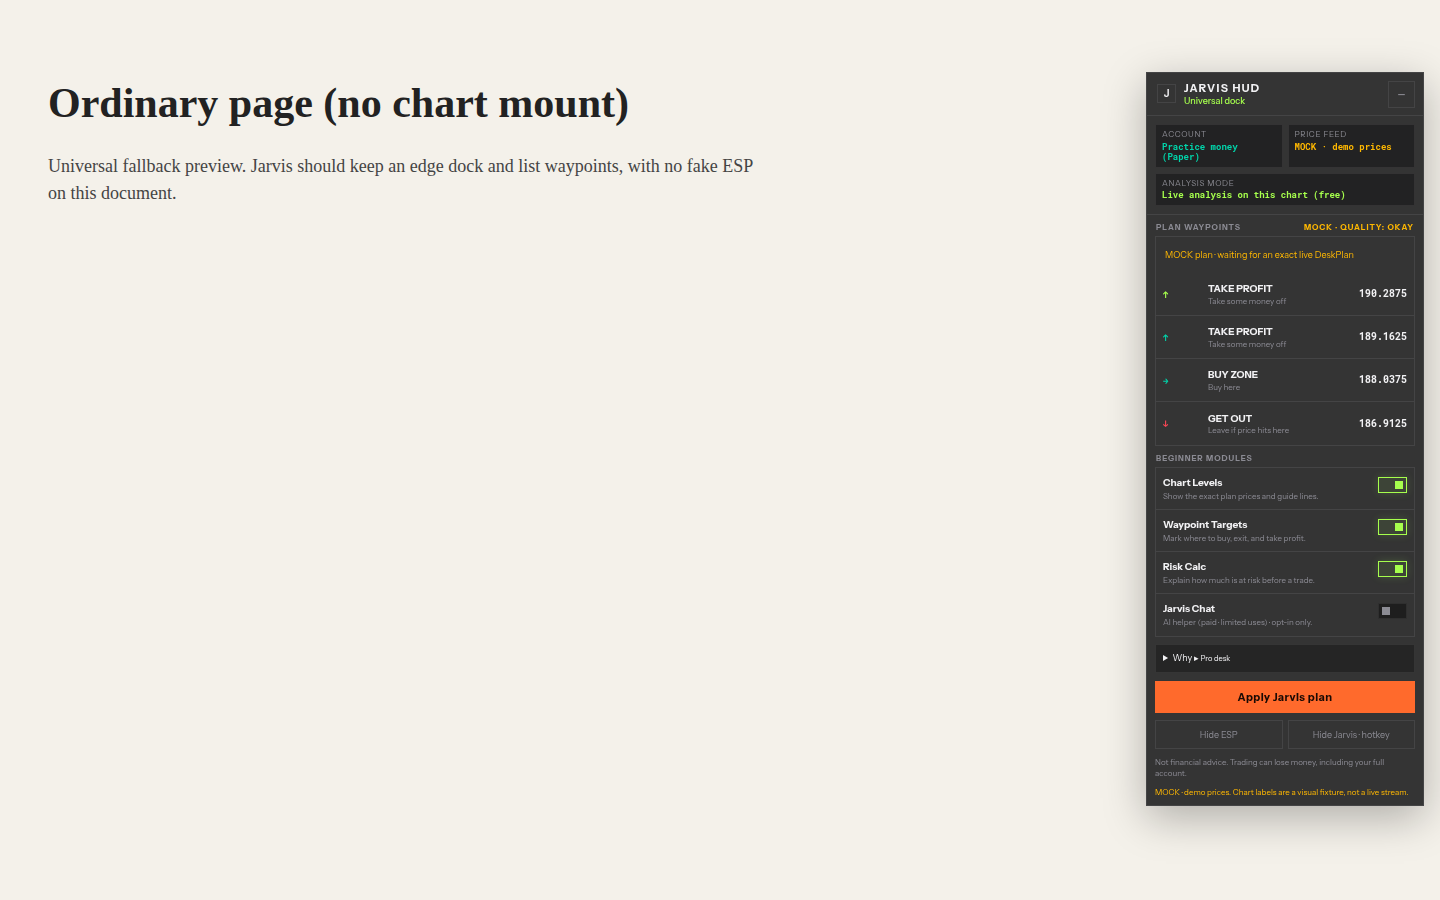
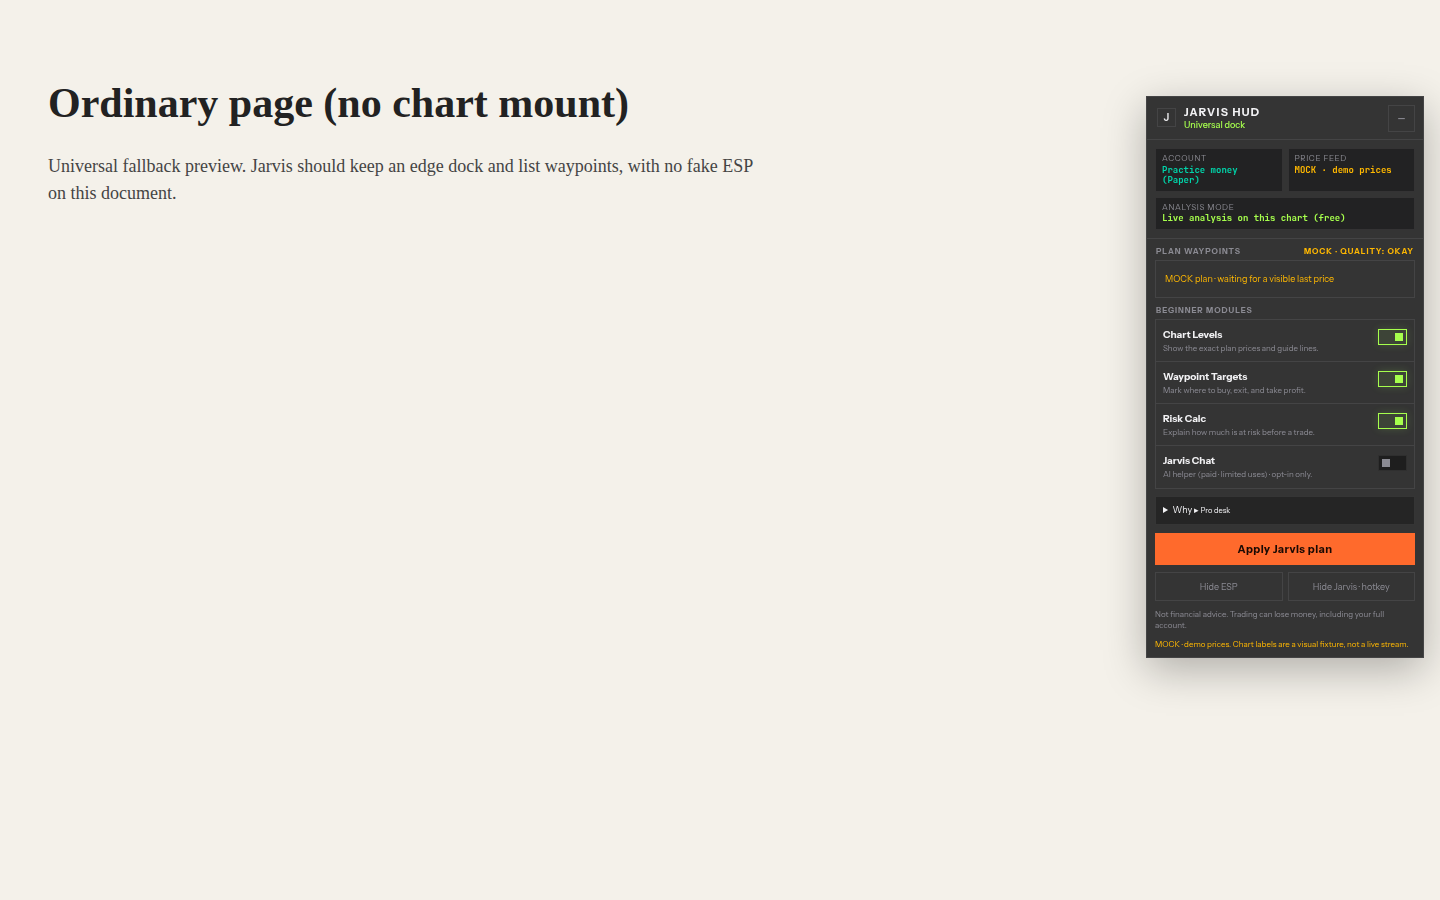
Scale MOCK DeskPlan to the visible host last price
Derive entry/stop/t1/t2 from the chart legend last or price-axis mid
so AAPL ~336 labels sit on the visible pane instead of 188-era fixtures.
Keep honest MOCK chrome and on-chart BUY ZONE / TAKE PROFIT / GET OUT.

diff --git a/content.js b/content.js
@@ -45,48 +45,20 @@
       color: "#FF4757",
     },
   ];
-  const MOCK_DESK_PLAN = Object.freeze({
-    id: "DEMO-LocalDesk",
-    symbol: "DEMO",
-    source: "local-desk",
-    side: "BUY",
-    entry: 188.0375,
-    stop: 186.9125,
-    t1: 189.1625,
-    t2: 190.2875,
-    target1: 189.1625,
-    target2: 190.2875,
-    rMultiple: 1,
-    rewardRisk: 1,
-    invalidation: "Mock only — no live signal is connected.",
-    quality: "Okay",
-    levelsUsed: ["VWAP", "OR", "ATR"],
-    surface: {
-      buyZone: { label: "BUY ZONE", price: 188.0375, subtitle: "Buy here" },
-      takeProfit: {
-        label: "TAKE PROFIT",
-        price: 189.1625,
-        subtitle: "Take some money off",
-      },
-      getOut: {
-        label: "GET OUT",
-        price: 186.9125,
-        subtitle: "Leave if price hits here",
-      },
-    },
-    why: {
-      bias: "Mock LocalDesk fixture for layout review only.",
-      invalidation: "Mock only — no live signal is connected.",
-      r: 1,
-      setupName: "LocalDesk fixture",
-    },
-  });
   const MOCK_PROJECTION = Object.freeze({
-    entry: 0.56,
-    stop: 0.73,
-    t1: 0.39,
-    t2: 0.24,
+    entry: 0.5,
+    stop: 0.68,
+    t1: 0.34,
+    t2: 0.22,
   });
+  const LAST_PRICE_SELECTORS = [
+    ".js-symbol-last",
+    '[data-name="legend-source-item"]',
+    '[data-name="legend"]',
+    ".legend",
+    '[data-testid="qsp-price"]',
+    "fin-streamer[data-field='regularMarketPrice']",
+  ];
 
   const defaultPreferences = {
     esp: true,
@@ -107,6 +79,9 @@
   let lastSequence = -1;
   let refreshTimer;
   let lastUrl = location.href;
+
+  let lastMockAnchor;
+  let mockPlan;
 
   function loadPreferences() {
     try {
@@ -140,11 +115,101 @@
     }));
   }
 
-  function currentLevels() {
-    return activeEnvelope
-      ? levelsForPlan(activeEnvelope.plan, activeEnvelope.projection)
-      : levelsForPlan(MOCK_DESK_PLAN, MOCK_PROJECTION);
+  function extractPrices(text) {
+    return String(text || "")
+      .replace(/,/g, "")
+      .match(/\d+(?:\.\d+)?/g)
+      ?.map(Number)
+      .filter((value) => Number.isFinite(value) && value > 1 && value < 1e7) || [];
   }
+
+  function readVisibleLast(adapter) {
+    const lastSelectors = [
+      ...(adapter?.lastPriceSelectors || []),
+      ...LAST_PRICE_SELECTORS,
+    ];
+    for (const selector of lastSelectors) {
+      for (const element of document.querySelectorAll(selector)) {
+        if (element.closest("#jarvis-multi-host-hud")) continue;
+        const prices = extractPrices(element.textContent);
+        if (prices.length) return prices[0];
+      }
+    }
+
+    const axisSelectors = adapter?.priceAxisSelectors || [];
+    const axisPrices = [];
+    for (const selector of axisSelectors) {
+      for (const element of document.querySelectorAll(selector)) {
+        if (element.closest("#jarvis-multi-host-hud")) continue;
+        axisPrices.push(...extractPrices(element.textContent));
+      }
+    }
+    if (axisPrices.length >= 2) {
+      return (Math.min(...axisPrices) + Math.max(...axisPrices)) / 2;
+    }
+    return undefined;
+  }
+
+  function buildMockPlan(last) {
+    const entry = last;
+    const stop = last * 0.992;
+    const t1 = last * 1.006;
+    const t2 = last * 1.012;
+    return {
+      id: "DEMO-LocalDesk",
+      symbol: "DEMO",
+      source: "local-desk",
+      side: "BUY",
+      entry,
+      stop,
+      t1,
+      t2,
+      target1: t1,
+      target2: t2,
+      rMultiple: 1,
+      rewardRisk: 1,
+      invalidation: "Mock only — no live signal is connected.",
+      quality: "Okay",
+      levelsUsed: ["VWAP", "OR", "ATR"],
+      surface: {
+        buyZone: { label: "BUY ZONE", price: entry, subtitle: "Buy here" },
+        takeProfit: {
+          label: "TAKE PROFIT",
+          price: t1,
+          subtitle: "Take some money off",
+        },
+        getOut: {
+          label: "GET OUT",
+          price: stop,
+          subtitle: "Leave if price hits here",
+        },
+      },
+      why: {
+        bias: "Mock LocalDesk fixture scaled to the visible last price.",
+        invalidation: "Mock only — no live signal is connected.",
+        r: 1,
+        setupName: "LocalDesk fixture",
+      },
+    };
+  }
+
+  function currentMockPlan(adapter) {
+    const last = readVisibleLast(adapter);
+    if (!Number.isFinite(last)) return mockPlan;
+    if (lastMockAnchor === last && mockPlan) return mockPlan;
+    lastMockAnchor = last;
+    mockPlan = buildMockPlan(last);
+    return mockPlan;
+  }
+
+  function currentLevels() {
+    if (activeEnvelope) {
+      return levelsForPlan(activeEnvelope.plan, activeEnvelope.projection);
+    }
+    const plan = currentMockPlan(activeAdapter);
+    return plan ? levelsForPlan(plan, MOCK_PROJECTION) : [];
+  }
+
 
   function setGapState(reason = "Waiting for an exact live DeskPlan") {
     activeEnvelope = undefined;
@@ -906,9 +971,12 @@
     };
 
     if (!activeEnvelope) {
+      const mock = currentMockPlan(activeAdapter);
       const gap = document.createElement("div");
       gap.className = "gap-state gap-copy";
-      gap.textContent = "MOCK plan · waiting for an exact live DeskPlan";
+      gap.textContent = mock
+        ? "MOCK plan · scaled to the visible last price"
+        : "MOCK plan · waiting for a visible last price";
       list.appendChild(gap);
       for (const level of currentLevels()) {
         appendListRow(level);
@@ -916,12 +984,12 @@
       }
       feedValue.textContent = "MOCK · demo prices";
       analysisValue.textContent = "Live analysis on this chart (free)";
-      planState.textContent = `MOCK · Quality: ${MOCK_DESK_PLAN.quality}`;
+      planState.textContent = `MOCK · Quality: ${mock?.quality || "Okay"}`;
       delayedWarning.textContent =
         "MOCK · demo prices. Chart labels are a visual fixture, not a live stream.";
       delayedWarning.classList.remove("is-hidden");
       whyPanel.open = whyWasOpen;
-      renderWhy(MOCK_DESK_PLAN);
+      if (mock) renderWhy(mock);
       return;
     }
 
@@ -931,7 +999,9 @@
       activeEnvelope.quote?.feed ?? activeEnvelope.feedStatus,
     ).toLowerCase();
     feedValue.textContent =
-      feedStatus === "delayed"
+      feedStatus === "mock" || feedStatus === "demo"
+        ? "MOCK · demo prices"
+        : feedStatus === "delayed"
         ? `Prices: Delayed · ~${activeEnvelope.delayMinutes}m`
         : `Prices: Live · ${lag}ms`;
     analysisValue.textContent = "Live analysis on this chart (free)";
@@ -1070,6 +1140,9 @@
     if (!shadow) return;
     if (
       activeEnvelope &&
+      !["mock", "demo"].includes(
+        String(activeEnvelope.quote?.feed ?? activeEnvelope.feedStatus).toLowerCase(),
+      ) &&
       Date.now() - activeEnvelope.observedAt >
         globalThis.JarvisDeskPlan.STALE_AFTER_MS
     ) {
@@ -1084,6 +1157,15 @@
       ? requestedAdapter
       : globalThis.JarvisHostAdapters.universal;
     if (resolvedAdapter !== activeAdapter) applyHostAdapter(resolvedAdapter);
+
+    if (!activeEnvelope) {
+      const previous = lastMockAnchor;
+      currentMockPlan(resolvedAdapter);
+      if (lastMockAnchor !== previous) {
+        renderPlan();
+        return;
+      }
+    }
 
     if (!chartBounds) {
       shadow.querySelector(".overlay").classList.add("is-hidden");
@@ -1115,6 +1197,10 @@
     const levels = currentLevels();
     const zone = shadow.querySelector(".entry-zone");
     const entry = levels.find((level) => level.id === "entry");
+    if (!entry || !Number.isFinite(entry.ratio)) {
+      shadow.querySelector(".overlay").classList.add("is-hidden");
+      return;
+    }
     const entryY =
       chartBounds.top + chartBounds.height * entry.ratio;
 

diff --git a/adapters.js b/adapters.js
@@ -13,6 +13,17 @@
         "#chart-container",
         "canvas",
       ],
+      lastPriceSelectors: [
+        ".js-symbol-last",
+        '[data-name="legend-source-item"]',
+        '[data-name="legend"]',
+        ".legend",
+      ],
+      priceAxisSelectors: [
+        '[data-name="price-axis"]',
+        '[class*="priceAxis"]',
+        '[class*="price-axis"]',
+      ],
       contrast: {
         labelBackground: "rgba(5, 5, 5, 0.92)",
         labelBorder: "rgba(255, 255, 255, 0.18)",
@@ -28,6 +39,14 @@
         '[class*="kline"]',
         '[class*="chart"] canvas',
         "canvas",
+      ],
+      lastPriceSelectors: [
+        '[class*="last"]',
+        '[class*="price"]',
+      ],
+      priceAxisSelectors: [
+        '[class*="price-axis"]',
+        '[class*="yAxis"]',
       ],
       contrast: {
         labelBackground: "rgba(5, 5, 5, 0.94)",
@@ -46,6 +65,15 @@
         "#chart-container",
         'section[data-testid*="quote"] canvas',
         "canvas",
+      ],
+      lastPriceSelectors: [
+        '[data-testid="qsp-price"]',
+        '[data-field="regularMarketPrice"]',
+        "fin-streamer[data-field='regularMarketPrice']",
+      ],
+      priceAxisSelectors: [
+        '[class*="price-axis"]',
+        "fin-chart",
       ],
       contrast: {
         labelBackground: "rgba(5, 5, 5, 0.97)",

diff --git a/demo/tradingview.html b/demo/tradingview.html
@@ -51,13 +51,31 @@
         z-index: 2;
         font: 600 13px/1.3 "JetBrains Mono", ui-monospace, monospace;
       }
+      .price-axis {
+        position: absolute;
+        top: 48px;
+        right: 8px;
+        bottom: 28px;
+        z-index: 2;
+        display: flex;
+        flex-direction: column;
+        justify-content: space-between;
+        font: 600 11px/1 "JetBrains Mono", ui-monospace, monospace;
+        color: #8b8e97;
+        text-align: right;
+      }
     </style>
   </head>
   <body>
     <header class="tv-top">TradingView · AAPL · 1D · MOCK overlay preview</header>
     <aside class="tv-left"></aside>
     <div data-name="chart-container">
-      <div class="legend">AAPL&nbsp;&nbsp;188.04</div>
+      <div class="legend" data-name="legend-source-item">AAPL&nbsp;&nbsp;336.12</div>
+      <aside class="price-axis" data-name="price-axis">
+        <div>348.00</div>
+        <div>336.12</div>
+        <div>324.00</div>
+      </aside>
       <canvas id="candles" width="1600" height="900"></canvas>
     </div>
     <script>

diff --git a/desk-plan.js b/desk-plan.js
@@ -27,12 +27,13 @@
     const invalidation = plan?.why?.invalidation ?? plan?.invalidation;
     if (
       value.type !== MESSAGE_TYPE ||
-      value.source !== "jarvis-free-local" ||
-      !["live", "delayed"].includes(feedStatus) ||
+      !["jarvis-free-local", "mock-demo"].includes(value.source) ||
+      !["live", "delayed", "mock", "demo"].includes(feedStatus) ||
       !Number.isSafeInteger(value.sequence) ||
       value.sequence <= lastSequence ||
       !Number.isFinite(value.observedAt) ||
-      Math.abs(now - value.observedAt) > STALE_AFTER_MS ||
+      (!["mock", "demo"].includes(feedStatus) &&
+        Math.abs(now - value.observedAt) > STALE_AFTER_MS) ||
       !plan ||
       !projection ||
       plan.source !== "local-desk" ||

diff --git a/README.md b/README.md
@@ -56,6 +56,7 @@ There is no LLM-per-tick path or timer batching. Until the stream bridge lands, 
 - **Live analysis on this chart (free)** is the default analysis badge; this spike has no cloud dependency.
 - The optional Jarvis Chat toggle is off by default and identified as **AI helper (paid · limited uses)**. This spike does not connect to a paid service.
 - On-chart labels lead with kid-clear actions: **→ BUY ZONE** (“Buy here”), **↑ TAKE PROFIT** (“Take some money off”), and **↓ GET OUT** (“Leave if price hits here”), each paired with the exact mono plan price.
+- MOCK DeskPlan prices are derived from the host chart’s visible last (legend) or price-axis mid — never a hardcoded 188-era fixture — then placed on-chart. The feed chip stays **MOCK · demo prices**.
 - Optional bias, invalidation, reward:risk, and setup name are confined to a collapsed **Why** expander. Quality is always shown as Strong, Okay, or Skip when a plan is active.
 - Overlay dock craft follows Invertix §0c on the full HUD surface: `--jx-void #050507`, `--jx-panel #0A0A0C`, hairline `white/8`, sparse glass blur 12–16px, editorial sans + mono prices, `--jx-cta #FF6A2C` on **Apply Jarvis plan** only. BUY ZONE stays cyan; GET OUT stays coral. This spike is overlay-only; companion screens are out of repo but share the same tokens.
 

diff --git a/docs/DESKPLAN.md b/docs/DESKPLAN.md
@@ -72,6 +72,7 @@ The message example documents the live envelope shape. The extension does not em
 
 ## Mock fixture and axis-snap status
 
-Until PR #4’s LocalDesk producer is available to the extension runtime, `content.js` carries one schema-matching DeskPlan fixture for layout review. Its feed badge is always `MOCK · demo prices`; it is never called Live or Delayed. The fixture projection is visual-only and is not a Design PASS for exact host-axis placement.
+Until a live LocalDesk producer is wired, the HUD builds a MOCK DeskPlan from the **visible last price** (legend) or the mid of visible price-axis labels. It never uses a hardcoded 188-era fixture. The feed chip stays `MOCK · demo prices`.
+
 
 The integration step is to send LocalDesk’s unmodified `entry`, `stop`, `t1`, and optional `t2` together with host-axis projections from the same chart-scale revision. The HUD already snaps each line, beacon center, arrow row, and mono number to those projection coordinates without price re-rounding. Missing prices or projections reject the live envelope and preserve honest mock chrome.
